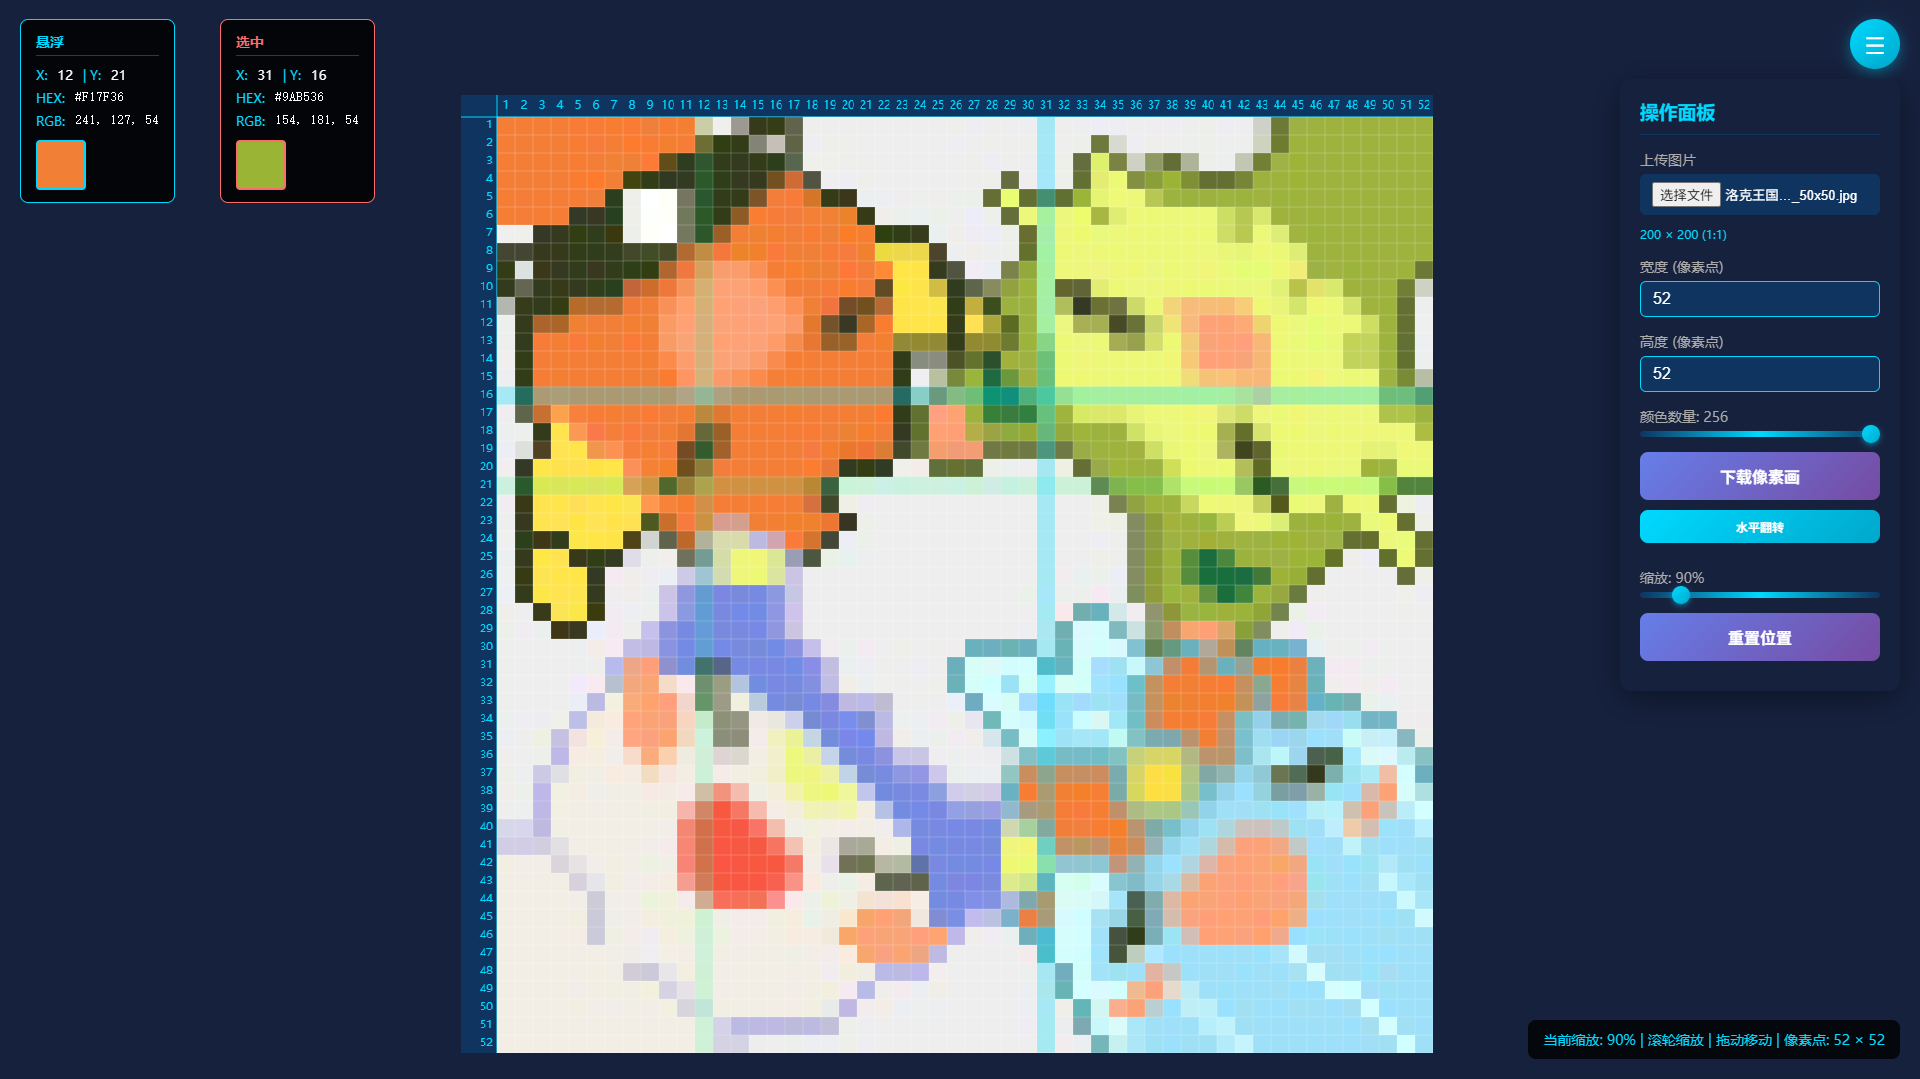
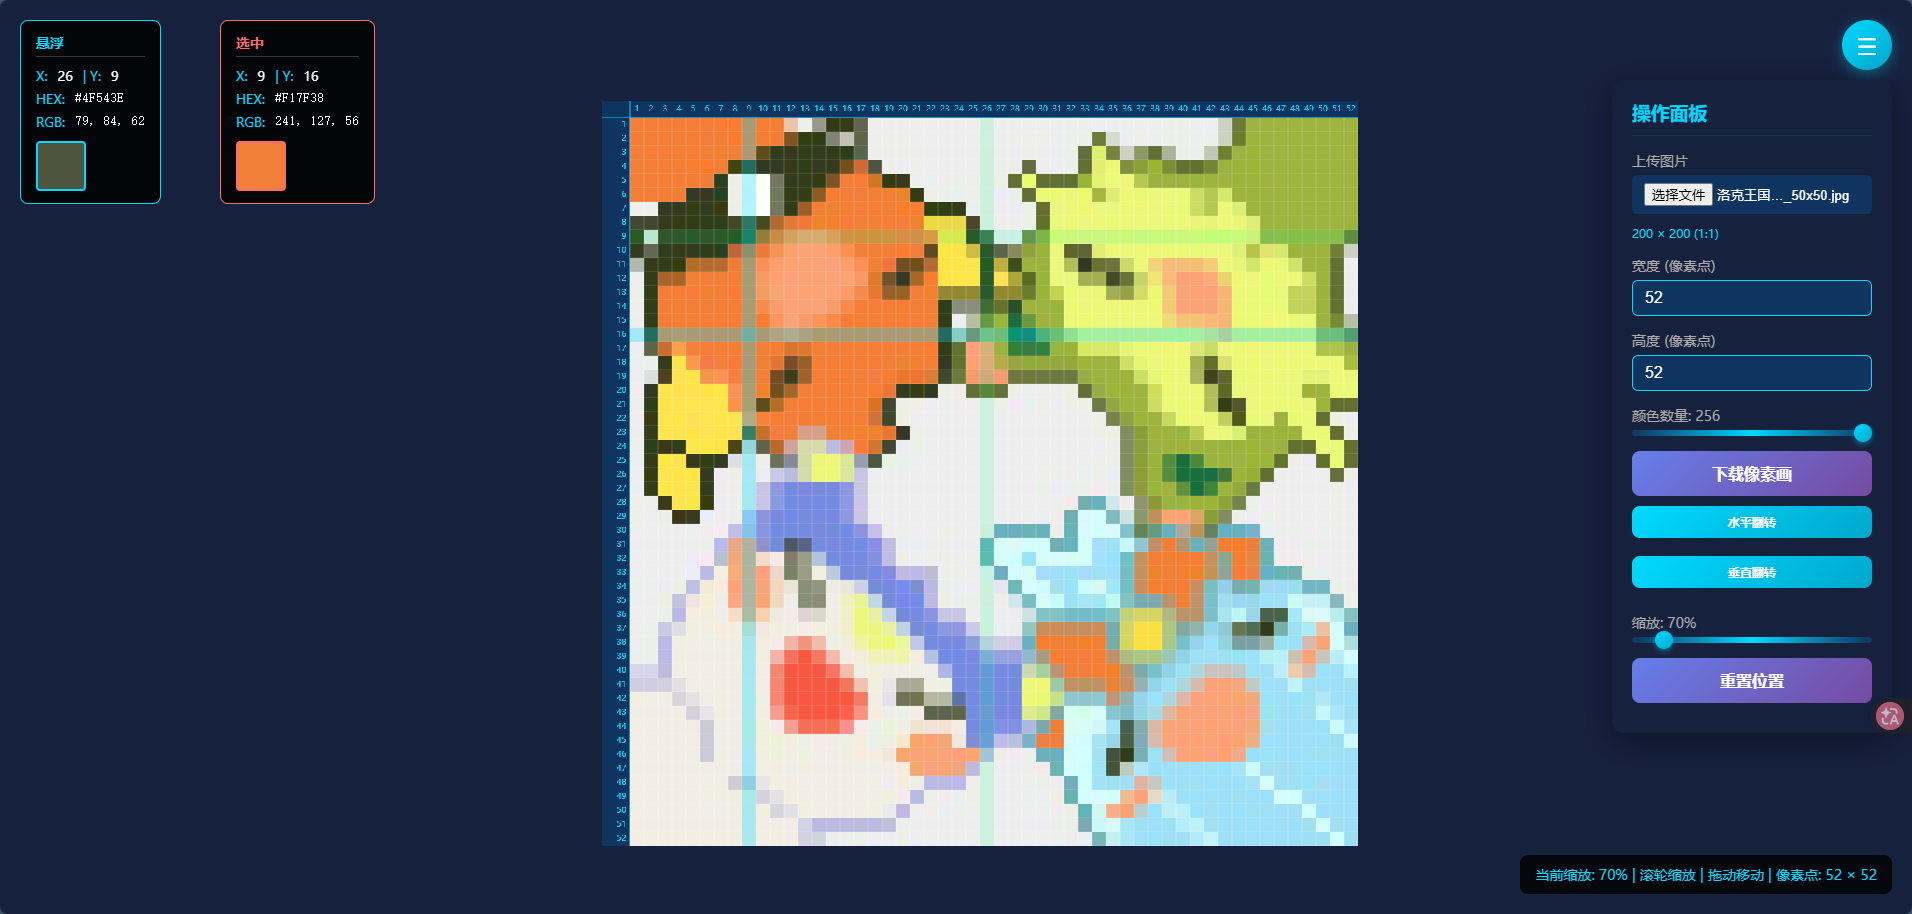
增加垂直翻转

diff --git a/index.html b/index.html
@@ -342,6 +342,7 @@
 
         <div class="control-group btn-group">
           <button class="btn btn-small" @click="flipHorizontal" :disabled="!originalImage">水平翻转</button>
+          <button class="btn btn-small" @click="flipVertical" :disabled="!originalImage">垂直翻转</button>
         </div>
 
         <div class="control-group">
@@ -613,6 +614,38 @@
             for (let x = 0; x < w; x++) {
               const srcIdx = (y * w + x) * 4;
               const dstIdx = (y * w + (w - 1 - x)) * 4;
+              newData[dstIdx] = data[srcIdx];
+              newData[dstIdx + 1] = data[srcIdx + 1];
+              newData[dstIdx + 2] = data[srcIdx + 2];
+              newData[dstIdx + 3] = data[srcIdx + 3];
+            }
+          }
+          
+          pixelData.value = new ImageData(newData, w, h);
+          originalPixelData = pixelData.value;
+          if (colorCount.value < 256) {
+            applyColorQuantization();
+          } else {
+            renderCanvas();
+          }
+        };
+
+        /**
+         * 垂直翻转像素图
+         * 将像素数据上下镜像翻转，并重新应用颜色量化
+         */
+        const flipVertical = () => {
+          if (!pixelData.value) return;
+
+          const data = pixelData.value.data;
+          const newData = new Uint8ClampedArray(data.length);
+          const w = pixelWidth.value;
+          const h = pixelHeight.value;
+          
+          for (let y = 0; y < h; y++) {
+            for (let x = 0; x < w; x++) {
+              const srcIdx = (y * w + x) * 4;
+              const dstIdx = ((h - 1 - y) * w + x) * 4;
               newData[dstIdx] = data[srcIdx];
               newData[dstIdx + 1] = data[srcIdx + 1];
               newData[dstIdx + 2] = data[srcIdx + 2];
@@ -927,6 +960,7 @@
           imageRatio,
           generatePixelArt,
           flipHorizontal,
+          flipVertical,
           colorCount,
           applyColorQuantization,
           handleWheel,
